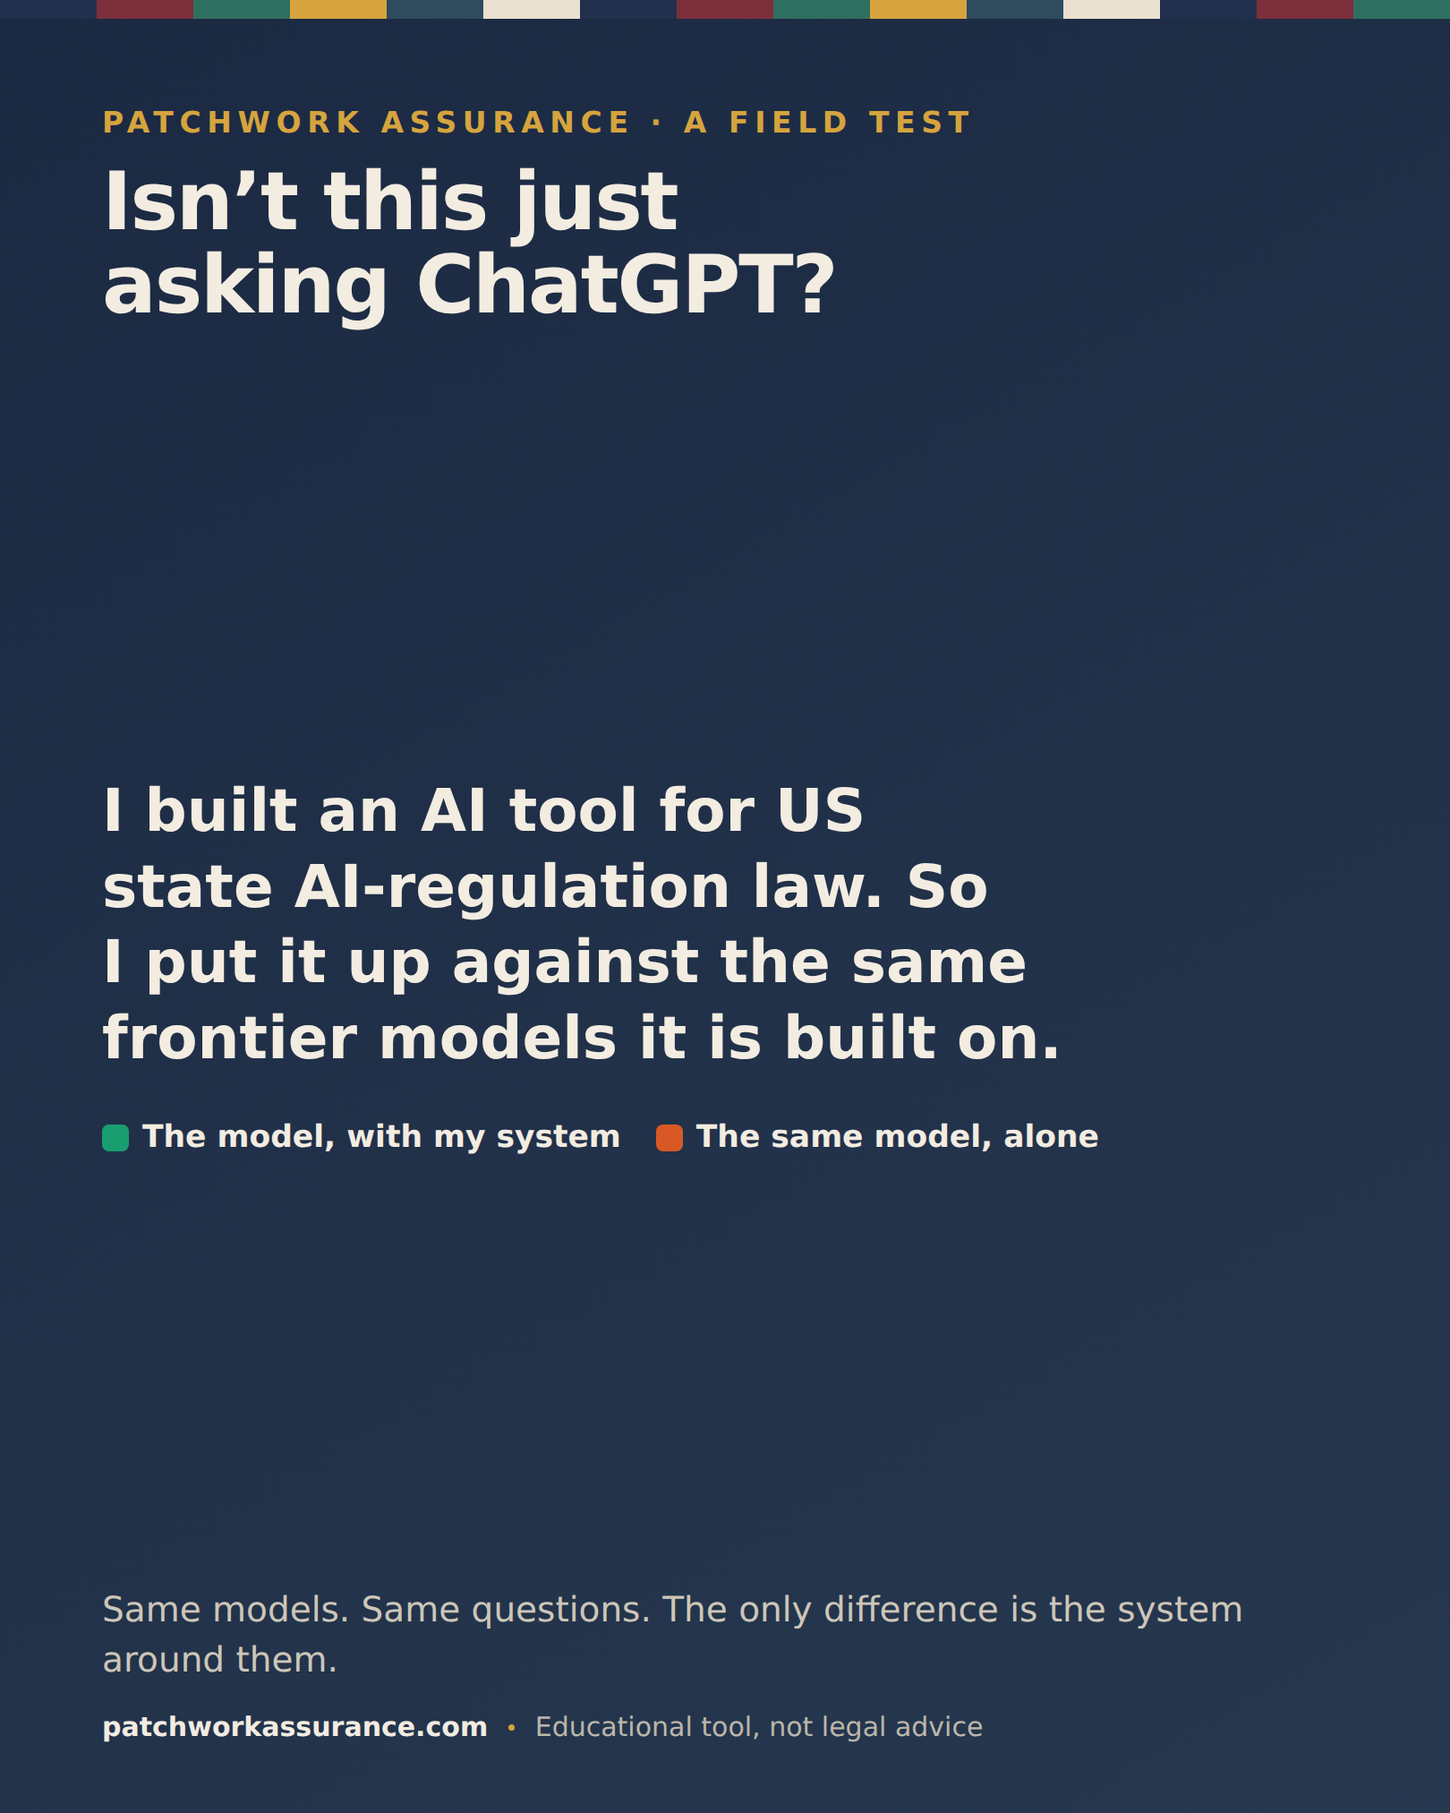
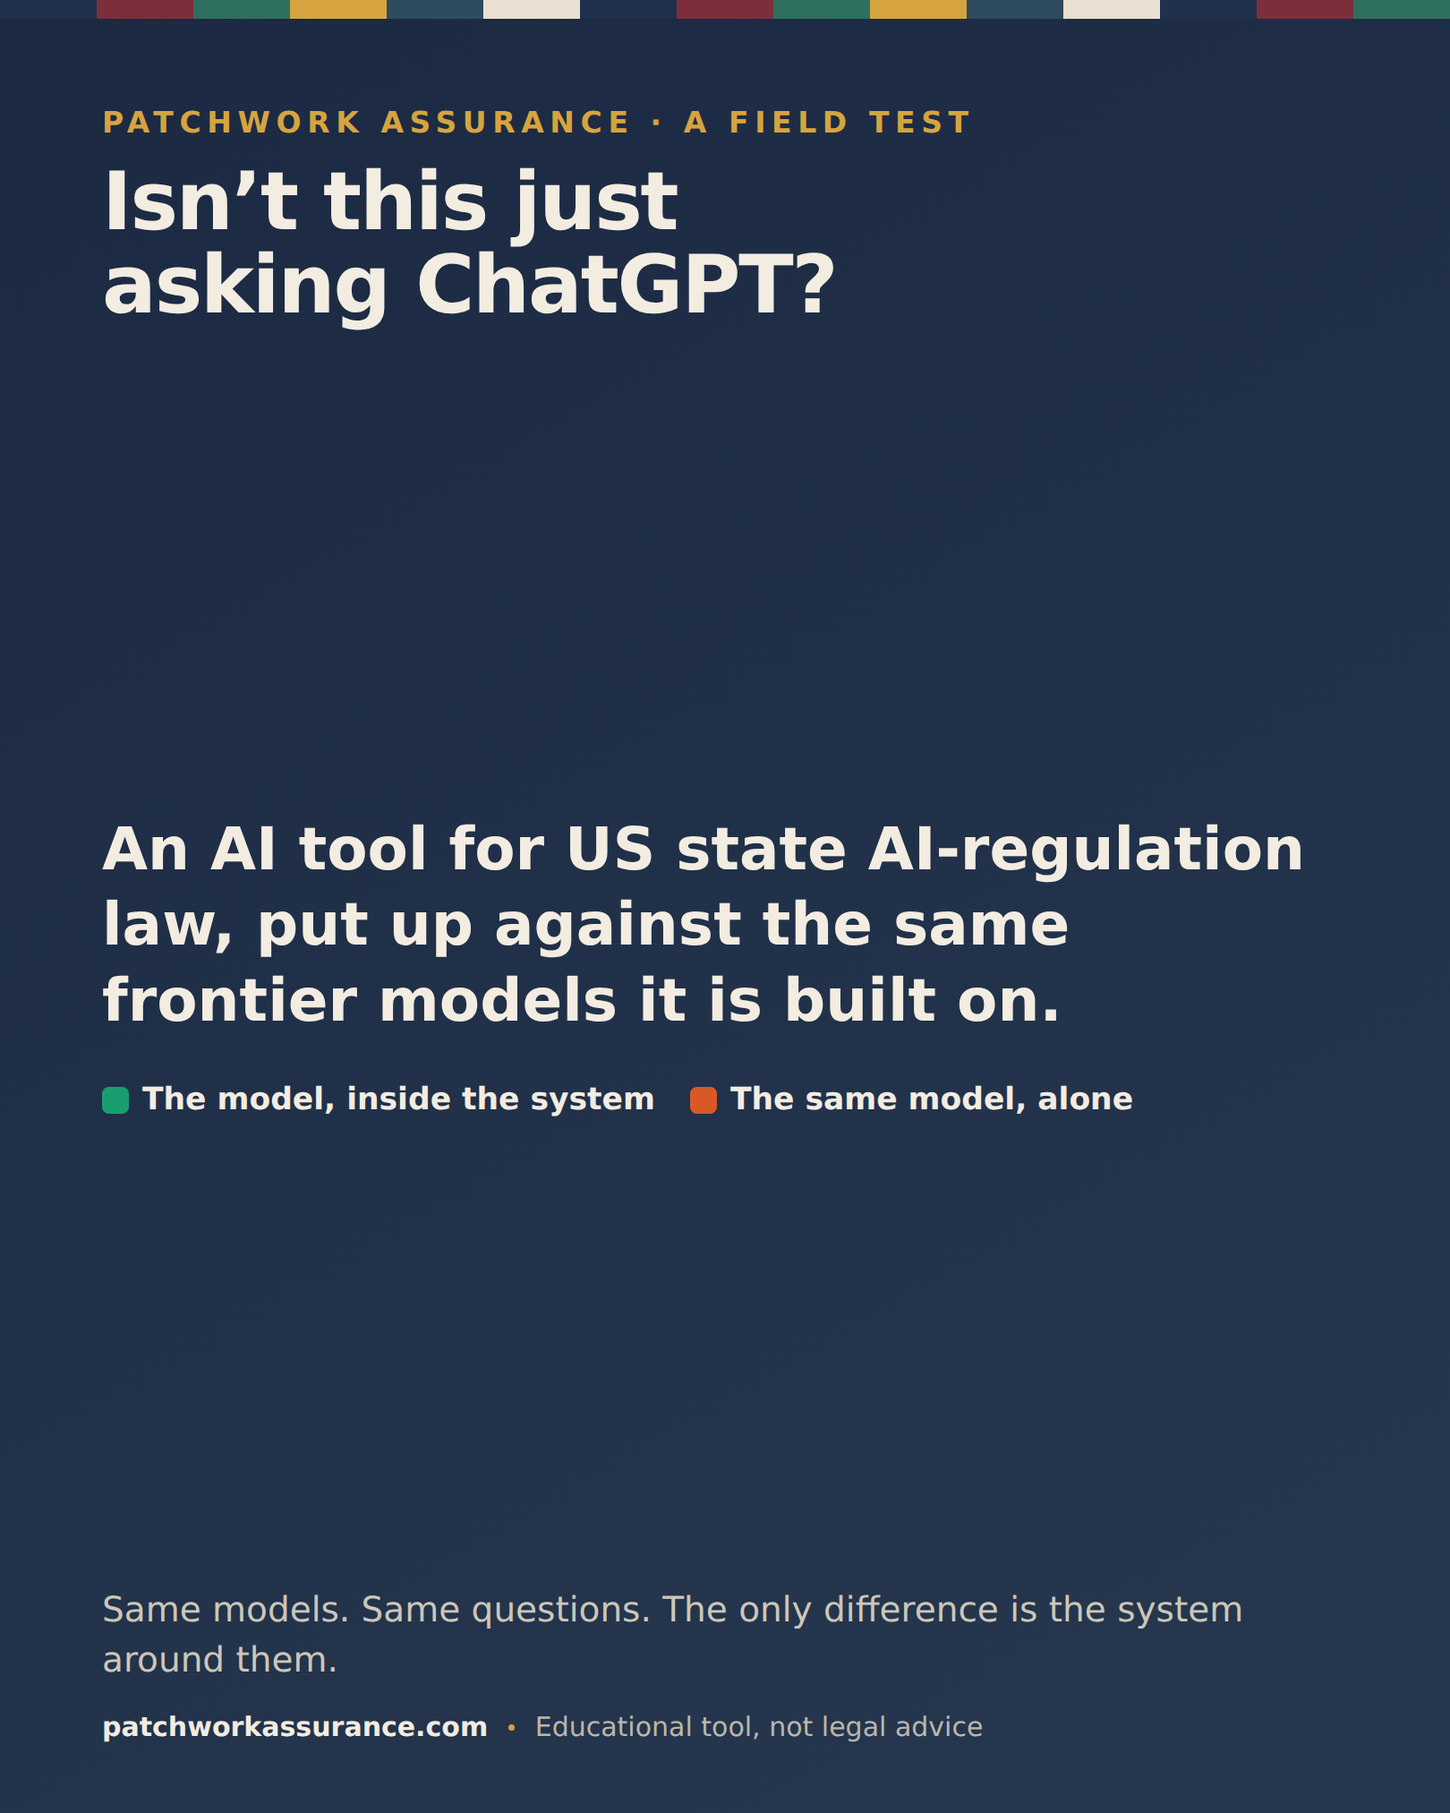
update README for phase 14, radar source, model tiers, and test count

Changed region(s): [[0.0617, 0.4356, 0.8951, 0.6533]]

diff --git a/README.md b/README.md
@@ -7,7 +7,7 @@
 <br>
 
 [![CI](https://github.com/sjtroxel/Patchwork-Assurance/actions/workflows/ci.yml/badge.svg)](https://github.com/sjtroxel/Patchwork-Assurance/actions/workflows/ci.yml)
-[![tests](https://img.shields.io/badge/tests-357%20passing-2f6f5f?style=flat-square)](tests/)
+[![tests](https://img.shields.io/badge/tests-513%20passing-2f6f5f?style=flat-square)](tests/)
 [![python](https://img.shields.io/badge/python-3.12+-2f4b5e?style=flat-square&logo=python&logoColor=white)](pyproject.toml)
 [![corpus](https://img.shields.io/badge/corpus-12%20laws%20%C2%B7%207%20jurisdictions-21304c?style=flat-square)](#the-corpus)
 [![license](https://img.shields.io/badge/license-all%20rights%20reserved-7c2f3b?style=flat-square)](LICENSE)
@@ -15,7 +15,7 @@
 [![FastAPI](https://img.shields.io/badge/FastAPI-2f4b5e?style=flat-square&logo=fastapi&logoColor=white)](https://fastapi.tiangolo.com/)
 [![Streamlit](https://img.shields.io/badge/Streamlit-7c2f3b?style=flat-square&logo=streamlit&logoColor=white)](https://streamlit.io/)
 [![Chroma](https://img.shields.io/badge/Chroma-vector%20store-2f6f5f?style=flat-square)](https://www.trychroma.com/)
-[![Claude](https://img.shields.io/badge/Claude-Haiku%20%2F%20Sonnet-21304c?style=flat-square&logo=anthropic&logoColor=white)](https://www.anthropic.com/)
+[![Claude](https://img.shields.io/badge/Claude-Haiku%20%2F%20Sonnet%20%2F%20Opus-21304c?style=flat-square&logo=anthropic&logoColor=white)](https://www.anthropic.com/)
 [![MCP](https://img.shields.io/badge/MCP-server-d6a43e?style=flat-square&logoColor=black)](#use-it-as-an-mcp-tool)
 
 **[Launch the tool](https://app.patchworkassurance.com)** &nbsp;·&nbsp;
@@ -67,14 +67,14 @@ flowchart TB
         memo["Compliance memo<br/>(Streamlit)"]
         chat["Chat<br/>(Streamlit)"]
     end
-    api["FastAPI<br/>/analyze · /chat · /health · /meta"]
+    api["FastAPI<br/>/analyze · /analyze/stream (SSE)<br/>/chat · /health · /meta"]
     mcp["MCP server<br/>5 read-only tools"]
     eval["eval/ harness<br/>+ monitoring agent"]
 
     subgraph core["core/ — imports inward only"]
         scope["Deterministic<br/>scope gate"]
         retr["Retrieval<br/>Chroma + fastembed"]
-        gen["Grounded generation<br/>Haiku / Sonnet split"]
+        gen["Grounded generation<br/>Haiku chat · Sonnet analysts<br/>Opus reviewer"]
         scope --> retr --> gen
     end
 
@@ -181,15 +181,24 @@ confidently wrong.
 ### Staying current: the national radar
 
 Two layers keep the corpus from going stale, and both **gate on a human** — nothing is auto-ingested.
-The Phase 9 monitor watches the URLs of laws *already* tracked (fetch → hash → diff → pull request on a
-real change). The Phase 13 **national radar** watches for laws *not yet* tracked: a weekly job searches
-LegiScan across all 50 states and Congress for newly enrolled or passed AI-regulation bills, filters by
-relevance and status, and opens a GitHub **issue** per candidate for review. It is a radar that
-**surfaces candidates for human curation, not a claim to detect every AI law** — keyword recall is lossy
-in both directions, and the human issue-gate is a first-class part of the design, the same credibility
-boundary as the monitor's pull-request gate. Detection is deterministic Python with **no LLM calls**;
-bill data comes from LegiScan (CC BY 4.0), while statute text is always sourced from the official
+
+The Phase 9 **monitor** watches the URLs of laws *already* tracked (fetch → hash → diff → pull request
+on a real change). It runs on a daily cron and has been green since it shipped.
+
+The Phase 13 **national radar** watches for laws *not yet* tracked: it searches state legislatures for
+newly enrolled or passed AI-regulation bills, filters by relevance and status, and opens a GitHub
+**issue** per candidate for review. It is a radar that **surfaces candidates for human curation, not a
+claim to detect every AI law** — keyword recall is lossy in both directions, and the human issue-gate is
+a first-class part of the design, the same credibility boundary as the monitor's pull-request gate.
+Detection is deterministic Python with **no LLM calls**; bill data comes from the
+[Open States](https://openstates.org/) API, while statute text is always sourced from the official
 publication.
+
+> [!NOTE]
+> The radar currently runs **on demand** (`workflow_dispatch`), not on a schedule. The weekly cron is
+> disabled: the free Open States tier allows 250 requests/day and a full 50-state sweep spends a
+> meaningful slice of that, so sweeps are run deliberately rather than automatically. The client paces
+> its own requests and aborts cleanly on a quota response rather than burning the budget on retries.
 
 ## Stack
 
@@ -197,9 +206,11 @@ Python end to end, on purpose (a deliberate GitHub signal — no JS/TS frontend)
 
 - **FastAPI** (`api/`) and **Streamlit** (`ui/`) over a pure-Python **`core/`**.
 - **Chroma** (local, persistent) for vectors behind a thin retrieval interface; **fastembed**
-  (`BAAI/bge-small`, ONNX) for embeddings; a **Claude Haiku / Sonnet** split for generation (fast +
-  cheap for chat, stronger for memos).
-- `src/` layout, one installable package. Quality gates are **`ruff`** and **`pytest`** (357 tests),
+  (`BAAI/bge-small`, ONNX) for embeddings.
+- A **tiered Claude split** for generation: Haiku for chat (fast, cheap, unlimited), Sonnet for the
+  per-law memo analysts, and Opus as the reviewer that hedges and prunes the assembled memo. The
+  multi-agent memo pipeline is the shipped default; a single-pass pipeline remains selectable.
+- `src/` layout, one installable package. Quality gates are **`ruff`** and **`pytest`** (513 tests),
   run locally via `pre-commit` and in CI.
 
 ## Run it locally
@@ -268,6 +279,38 @@ improved groundedness and citation accuracy over the single-pass baseline.
 Spend is gated behind an explicit confirmation step (`eval/safety.py`) after an early accidental-cost
 incident — see [`docs/SPENDING_SAFETY.md`](docs/SPENDING_SAFETY.md).
 
+### Does the grounding actually earn its keep?
+
+The fair skeptical question about any RAG tool is whether it beats just asking a frontier model. Phase
+14 tested that directly: **seven arms, the same compliance questions, the same twelve laws.** Some arms
+wrapped a model in this system's retrieval, corpus, and scope gate; others asked the same models the
+same questions raw. Full design, per-arm results, and cost reconciliation are in
+[`docs/roadmap/phase-14-benchmark-vs-frontier-IMPLEMENTATION.md`](docs/roadmap/phase-14-benchmark-vs-frontier-IMPLEMENTATION.md).
+
+| | Citations resolving to a governing statute | Gold-obligation coverage | Currency probes stale |
+|---|---|---|---|
+| **Grounded arms** (4) | 98–100% | 20–23 / 24 | 0 / 2 |
+| **Raw arms** (3) | 20–43% | 4–16 / 24 | 1–2 / 2 |
+
+The separation held across a ~50x cost range: a model costing about **one cent per memo**, run through
+the system, landed in the same band as the most expensive frontier arm. **The finding is that grounding,
+not model tier, determines quality on this task.**
+
+Three honest calibrations, because they matter more than the headline:
+
+- **An unresolvable citation is not a hallucination.** All 454 were hand-adjudicated; only **5** were
+  fabricated. The other 449 were real law — Title VII, state civil-rights codes, local ordinances —
+  just not the statute that governs the question. The failure is focus and currency, not invention.
+- **Raw coverage is inflated by verbosity.** The raw arms emitted up to 27 obligations per case against
+  the grounded arms' ~8, which clears a word-overlap threshold by volume. Coverage is only meaningful
+  read alongside citation resolution.
+- **The raw arms were not browsing**, and n is small (12–13 cases). This is a defensible in-house
+  benchmark, not a published study.
+
+The fairness control is the part that makes it hold up: the *same* models go stale on recently amended
+law without the corpus and clean with it, so the honest conclusion is "a raw API call cannot know the
+law changed," not "frontier models are bad at law."
+
 ## Project layout
 
 <details>
@@ -276,7 +319,7 @@ incident — see [`docs/SPENDING_SAFETY.md`](docs/SPENDING_SAFETY.md).
 ```
 src/patchwork_assurance/
   core/        retrieval, corpus loading, scope, memo + chat logic (imports inward only)
-  api/         FastAPI transport: /analyze, /chat (SSE), /health, /meta, /memo-quota
+  api/         FastAPI transport: /analyze, /analyze/stream (SSE), /chat, /health, /meta, /memo-quota
   ui/          Streamlit memo + chat surfaces, shared legal chrome
   mcp/         MCP server: five read-only tools wrapping core/
 corpus/        cleaned statute text + metadata records (the only place laws live)

diff --git a/writeups/phase-14-grounding/POST.md b/writeups/phase-14-grounding/POST.md
@@ -6,25 +6,29 @@ Voice rules applied: no emoji, em-dashes minimized, full name "Patchwork Assuran
 narrow edge not a credential, every number audited from the scorecards (see `README.md`). Hedged on
 purpose: small n, deterministic checks, educational tool.
 
+Voice revision 2026-07-27: **product-forward, not narrator-forward.** The finding and the system are
+the subject of the sentences, not the builder. First person is down from eight beats to two, both
+deliberate and both flagged in the notes below.
+
 ---
 
 ## Body (paste this)
 
-I built an AI tool for US state AI-regulation law, and the fair question I kept getting was: isn't this just asking ChatGPT?
+Isn't an AI compliance tool just a wrapper around ChatGPT? It is a fair question, and Patchwork Assurance now has a benchmarked answer.
 
-So I ran the test. I put my tool up against the same frontier models it is built on. Same compliance questions, same 12 real state laws. The only difference: the raw models answered alone, and my system wrapped those same models in retrieval, a curated statute corpus, and a scope gate.
+The setup: the same compliance questions and the same 12 real state AI laws, put to frontier models two ways. Raw, answering on their own. Then wrapped in the system's retrieval, curated statute corpus, and scope gate. Same underlying models on both sides. Nothing else changed.
 
-The result that surprised me: a model that cost about one cent per memo, run through the system, beat the most expensive frontier model asked on its own. Not tied. Beat it.
+A model costing about one cent per memo, run through the system, beat the most expensive frontier model asked on its own. Not tied. Beat it.
 
-Here is the number that matters. When these top models answer raw, only 20 to 43 percent of the laws they cite are ones that actually govern the question. Wrapped in the corpus, 98 to 100 percent do. Same models, both times.
+The number that carries the finding: answering raw, only 20 to 43 percent of the laws these top models cite are ones that actually govern the question. Wrapped in the corpus, 98 to 100 percent do.
 
-The honest part, and the one I care about most: the raw models are not hallucinating. I hand-checked all 454 of their unresolvable citations. Only 5 were actually wrong. The other 449 were real laws, just not the specific statutes the question was about. Title VII, state civil-rights codes, local ordinances. It is not invention. It is a lack of focus, and a lack of currency. A raw model cannot know that Colorado amended its AI Act after the model was trained.
+Now the honest part, because the obvious explanation is wrong. The raw models are not hallucinating. I checked all 454 unresolvable citations by hand, and only 5 were actually made up. The other 449 were real laws, just not the specific statutes the question was about. Title VII, state civil-rights codes, local ordinances. That is not invention. It is a lack of focus, and a lack of currency. No model can know from training data alone that Colorado amended its AI Act after that data was collected.
 
-Think of it as a closed-book exam versus an open-book one. The model was always smart. Grounding just hands it the right law, open to the right page, current as of today, then checks every citation before the answer ships.
+Closed-book exam versus open-book. The model was always smart. Grounding hands it the right law, open to the right page, current as of today, then checks every citation before the answer ships.
 
-None of this means frontier models are bad. They are remarkable. It means that for a narrow, high-stakes, fast-changing domain, where fifty states are each writing their own AI law with no federal floor, the model alone cannot know which statute governs or whether it changed last month. A grounded system can.
+None of this makes frontier models bad. They are remarkable. It means that in a narrow, high-stakes, fast-changing domain, where fifty states are each writing their own AI law with no federal floor, a model alone cannot know which statute governs or whether it changed last month. A grounded system can.
 
-The moat was never the model. Everyone can call the same API I call. The value is the corpus, the retrieval, and the scope gate, the boring engineering around the model. That is the part that is actually mine.
+The moat was never the model. Anyone can call the same API. The value sits in the corpus, the retrieval, and the scope gate, the boring engineering wrapped around the model. That is the part worth building.
 
 Live tool and the full benchmark, every number, in the repo. Built in Python. Educational tool, not legal advice.
 
@@ -34,9 +38,9 @@ patchworkassurance.com
 
 ## Alt opening lines (A/B options for the first ~210 chars, the "see more" cutoff)
 
-- (default, above) "I built an AI tool for US state AI-regulation law, and the fair question I kept getting was: isn't this just asking ChatGPT?"
-- "A model that costs about a penny beat a frontier model that costs 50x as much. The difference was not the model. It was everything I wrapped around it."
-- "I spent about $20 to answer one skeptical question about my own project: isn't an AI compliance tool just a wrapper around ChatGPT?"
+- (default, above) "Isn't an AI compliance tool just a wrapper around ChatGPT? It is a fair question, and Patchwork Assurance now has a benchmarked answer."
+- "A model costing about a penny per answer beat a frontier model costing 50x as much. The difference was not the model. It was everything wrapped around it."
+- "Twelve state AI laws, two frontier models, one question: does grounding actually beat raw model horsepower? About $20 of benchmark says yes, and not by a little."
 
 ## Notes for posting
 - Attach carousel PNGs `01`..`09` from `carousel/out/` in order.
@@ -44,3 +48,11 @@ patchworkassurance.com
   the full currency analysis is repo-only. Add-back as a fuller sub-point only if the post needs it.
 - First comment (optional): drop the direct GitHub link + one line on methodology to keep the
   post body link-light.
+
+### The two remaining first-person beats (cut either if you want it colder)
+1. "I checked all 454 unresolvable citations by hand" — kept on purpose. The hand-audit is the most
+   trust-building claim in the post and it only lands because a person did it. Impersonal alternative:
+   "All 454 unresolvable citations were checked by hand, and only 5 were actually made up."
+2. Closing line, "That is the part worth building" — this replaced "That is the part that is actually
+   mine." Colder and more product-forward, but it also gives up the one line that says *he* built the
+   engineering. If the post is doing recruiter work, the older line does more of it. Judgment call.

diff --git a/docs/CORPUS_TRACKER.md b/docs/CORPUS_TRACKER.md
@@ -300,3 +300,27 @@ carrying the full tech-neutral statute — the honest fix is a §7 amendment, no
 Apr-2026 7th Cir. retroactivity ruling; CUBI — TX AG AI-focused enforcement), but *applied-to-AI ≠
 AI-specific statute*, which is exactly the §7.2.1 line. **QA follow-up:** verify our `tx-traiga` file carries
 the HB 149 § 503.001 amendment (the within-corpus section-coverage question the benchmark also raised).
+
+### 7.8 Triage decisions — second Open States sweep (2026-07-26)
+The first clean `RADAR_SOURCE=openstates` sweep after the 2026-07-25 radar fixes (request pacing +
+daily-quota abort, commit `3dc5aea`): exit 0, **12 NEW / 0 changed / 0 errors**. Ten of the twelve were the
+§7.6 batch re-surfacing — `.radar_store.json` is not held locally (it only ever lived in the Actions cache),
+so a local run has no memory of prior sweeps. That is expected behavior, not a finding. RI HB 7350 was a new
+bill *number* only: the House companion to RI SB 2195, already OUT at §7.6. Four of the §7.6 thirteen did not
+re-surface (CO HB 1139, CO HB 1195, CT SB 417, CT HB 5222) — query-window drift; their §7.6 calls stand.
+
+**Two genuinely new candidates, both Hawaii, both signed ~2026-07-16. Both OUT; zero corpus adds.**
+
+| Bill | Call | Why |
+|---|---|---|
+| HI HB 2137 — AI "realistic digital imitations" | OUT | §7.3 **deepfake / synthetic media**. Prohibits unauthorized realistic AI imitation of a person's face, voice, or likeness for advertising, fraud, defamation, or harassment; private right of action (up to $25k per advertisement, punitive damages, fees); parody/news/political exemptions. Real duty structure, but fails §7.2.2 — no consequential decision about an individual. Same bucket as LA HB 119 / SB 42. |
+| HI SB 3001 — "Artificial Intelligence Disclosure and Safety Act" | OUT | §7.3 **chatbot / AI-companion disclosure**. Binds *operators of AI companions*: disclose the system is not human, persistent disclaimers for known minors, self-harm/suicidal-ideation crisis protocols, bans on variable-reward engagement design and sexually explicit content toward minors, DOH annual reports from 2028-01-01, enforced as an unfair or deceptive practice. Verified against the CD1 text: reaches no consequential-decision domain. Fails §7.2.2. |
+
+**Bottom line:** both clear §7.2.1 (AI-specific) and §7.2.4 (enacted) and fail on §7.2.2, which is the gate
+that carries the thesis. **Hawaii remains a non-jurisdiction for this corpus** — recorded here so the radar
+does not re-chase either bill. §7.4 is not reached.
+
+**One process note banked:** the sweep is now the trustworthy signal it was supposed to be — the 7/13
+"CI-unreachable" diagnosis that disabled the weekly `schedule:` cron in `.github/workflows/radar.yml` was
+wrong, and this clean run was the gate for re-enabling it. Re-enable is a live option; the sweep must stay at
+most once-daily either way (Open States free tier = 250 requests/day; a full sweep costs ~85–150).
